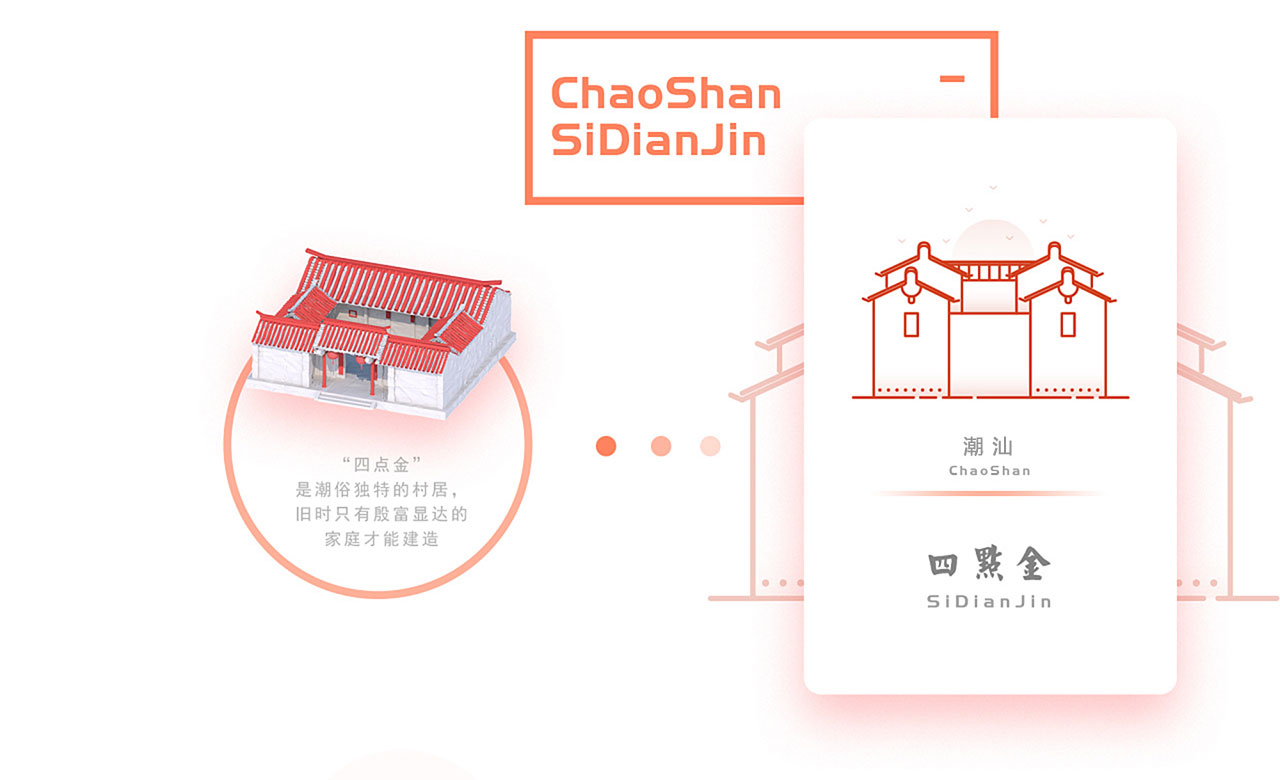
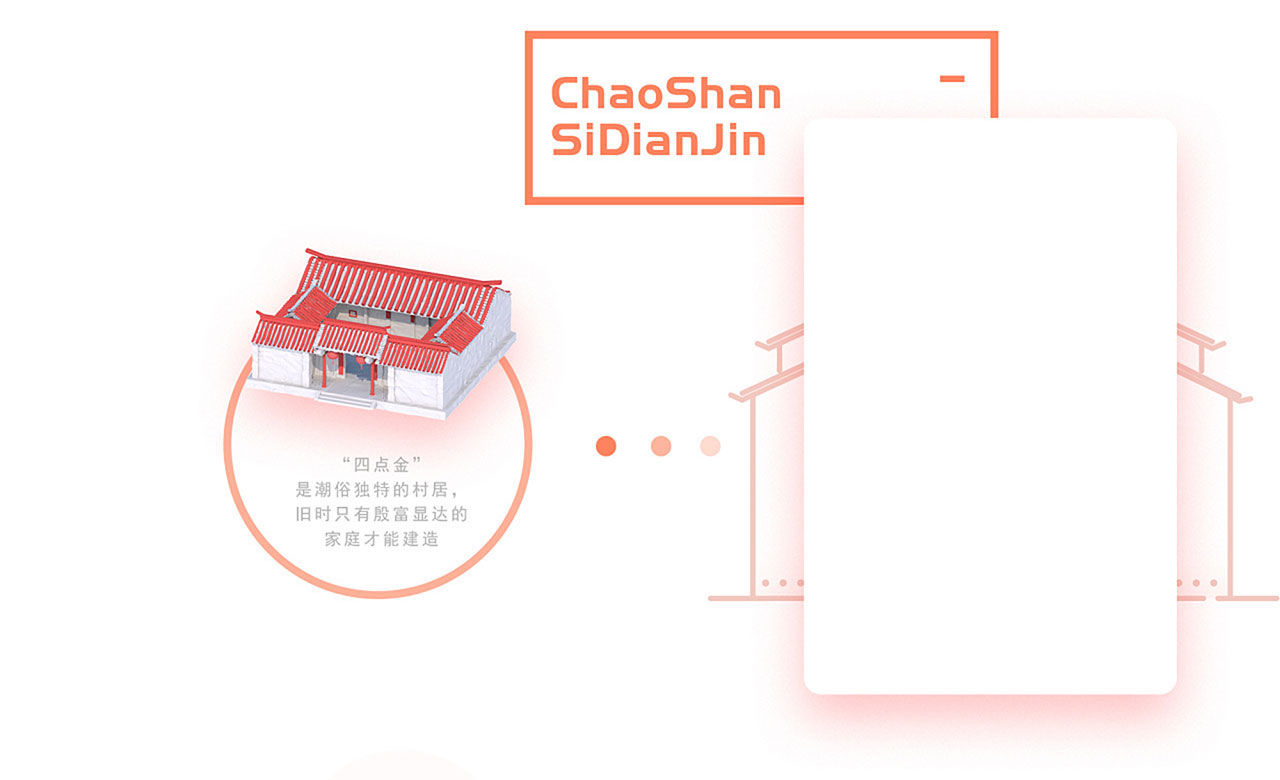
zzq!!!!

diff --git a/zzq/css/style.css b/zzq/css/style.css
@@ -120,11 +120,45 @@ td, th, caption {padding:0;} /* 去除单元格以及caption表头的padding值 
 .titlebox .titlecont .navbox li {
     float: left;
     cursor: pointer;
+    transition: all .3s;
+}
+.titlebox .titlecont .navbox li:hover {
+    transform: translate(0,-10px);
 }
 .titlebox .titlecont .navbox li img {
     width: 125px;
 }
 .listbox {
     text-align: center;
+}
+.listbox li {
+    position: relative;
+    margin: 0 auto;
+    width: 1280px;
+}
+.listbox li img.listbg {
+    position: relative;
+    z-index: 8;
+}
+@keyframes mymove
+{
+    from {left: -10px;}
+    50% {left: 10px;}
+    to {left: -10px;}
+}
+
+@-webkit-keyframes mymove
+{
+    from {left: -10px;}
+    50% {left: 10px;}
+    to {left: -10px;}
+}
+.listbox li img.listcont {
+    position: absolute;
+    left: -10px;
+    top: 0;
+    z-index: 9;
+    animation:mymove 3s infinite ease;
+    -webkit-animation:mymove 3s infinite ease;
 }
 

diff --git a/zzq/index.html b/zzq/index.html
@@ -28,8 +28,14 @@
     </div>
   </div>
   <ul class="listbox">
-    <li><a href="javascript:;" name="chaoshan"><img src="images/list1.jpg"></a></li>
-    <li><a href="javascript:;" name="guangfu"></a><img src="images/list2.jpg"></li>
+    <li><a href="javascript:;" name="chaoshan">
+      <img class="listbg" src="images/list1.jpg">
+      <img class="listcont" src="images/list1cont.png">
+    </a></li>
+    <li><a href="javascript:;" name="guangfu">
+      <img class="listbg" src="images/list2.jpg">
+      <img class="listcont" src="images/list2cont.png">
+    </a></li>
     <!-- <li><img src="images/list3.jpg"></li> -->
     <!-- <li><img src="images/list4.jpg"></li> -->
   </ul>
